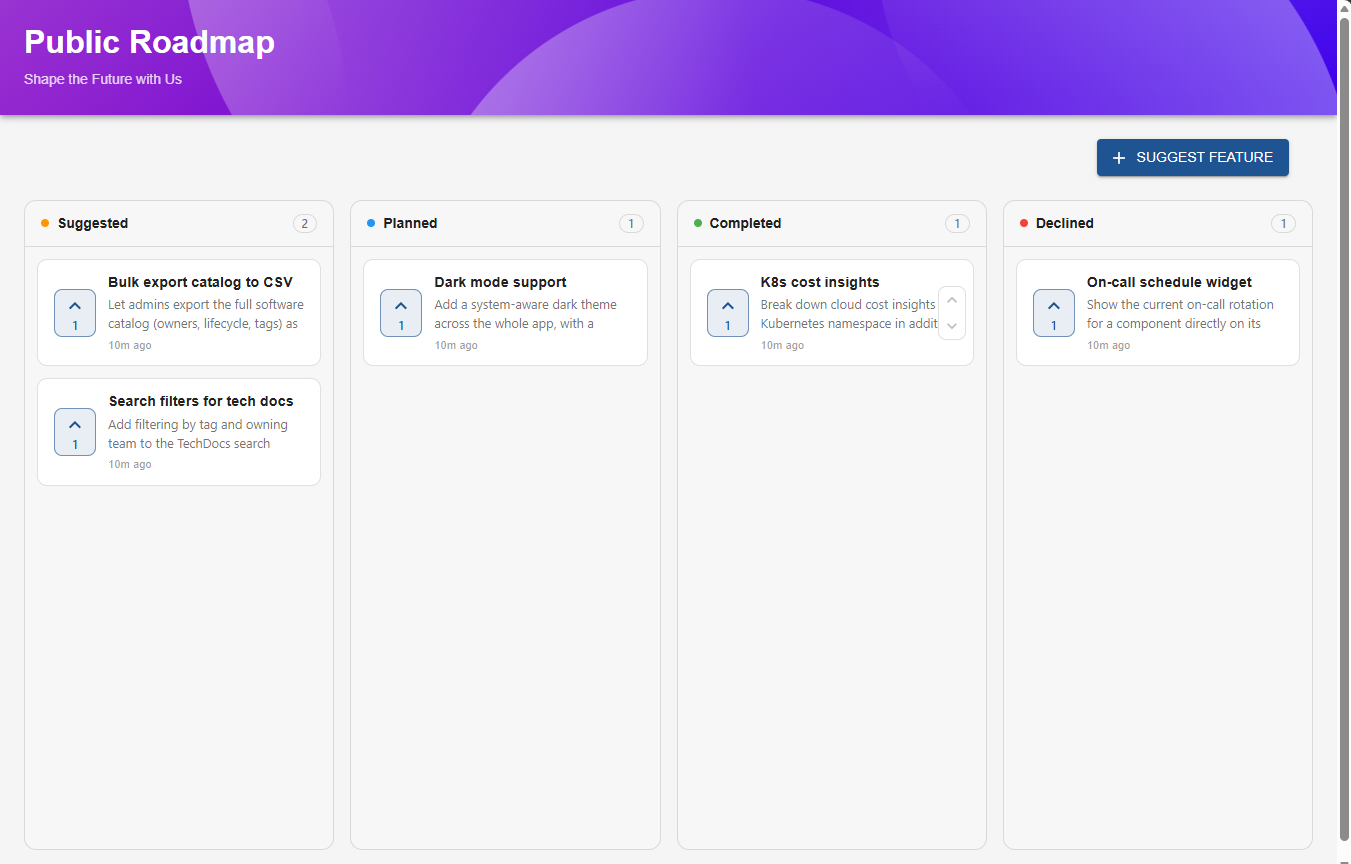
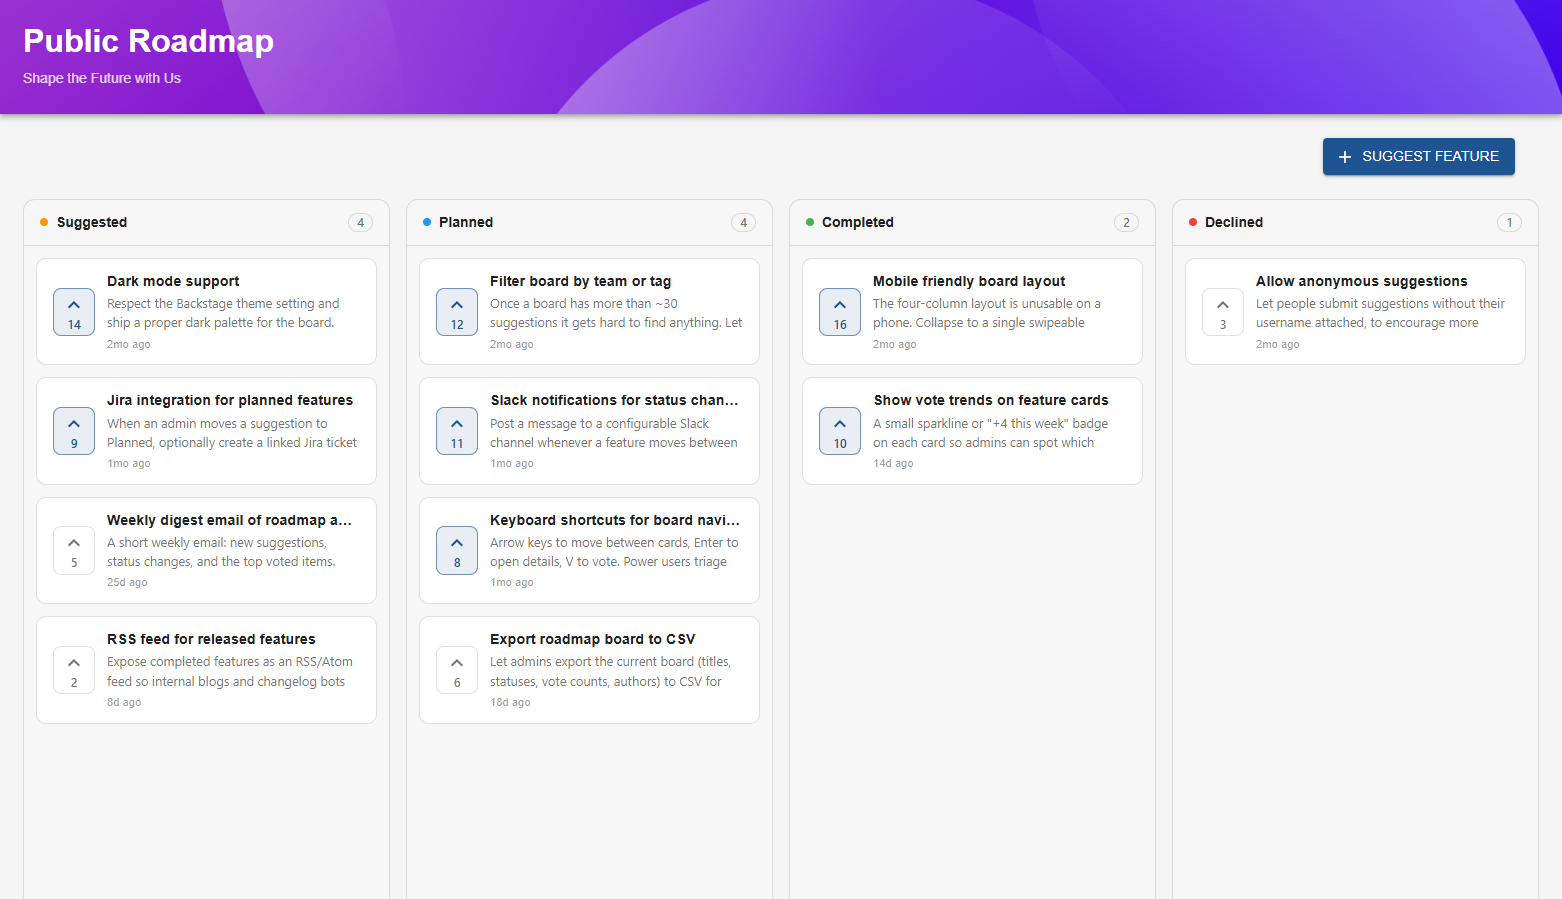
docs: refresh README screenshots (#33)
* docs: refresh README screenshots and add notifications, search, and similar-suggestions shots

* docs: prefer natural phrasing in new README text

* docs: natural phrasing pass across the README

* chore: add named demo users to the dev catalog

---------

diff --git a/README.md b/README.md
@@ -21,11 +21,29 @@ The Backstage Roadmap Plugin takes roadmaps out of hidden places like Confluence
 
 ### Feature Details
 
+Voting, status management, and threaded comments in a details drawer.
+
 ![Feature Details Drawer](./assets/FeatureDetailsDrawer.png)
 
 ### Suggest New Feature
 
+While you type, the dialog surfaces similar existing suggestions so people can vote for an existing request instead of filing a duplicate.
+
 ![Suggestion Drawer](./assets/SuggestionDrawer.png)
+
+### Notifications
+
+Authors are notified when their suggestion changes status or receives a comment, and admins hear about new suggestions. Each event has its own topic, so users can tune or mute them in their standard Backstage notification settings.
+
+![Notifications](./assets/Notifications.png)
+
+![Notification Settings](./assets/NotificationSettings.png)
+
+### Search
+
+With the optional collator module installed, roadmap features show up in Backstage global search with status, vote count, and author.
+
+![Search Results](./assets/SearchResults.png)
 
 ## ✨ Features
 
@@ -36,10 +54,11 @@ The Backstage Roadmap Plugin takes roadmaps out of hidden places like Confluence
 - 🔍 (Optional) Backstage search integration via a collator module
 - 🔗 Deep links: `/roadmap?feature=<id>` opens a feature directly
 - ⚡ Live board updates via Backstage signals (votes and status changes appear without a refresh)
-- 🔌 Events for integrators: every change is published to the Backstage events bus
+- 🔌 Events for integrators, with every change published to the Backstage events bus
 - 🔐 Role-based permissions (admin vs. regular user)
 - 🆕 Feature suggestion form for users
-- 🦊 (Optional) GitLab integration — use GitLab issues as the datasource
+- 👯 Duplicate detection in the suggest dialog, which surfaces similar existing suggestions while you type
+- 🦊 (Optional) GitLab integration that uses GitLab issues as the datasource
 
 ## 🛠️ Installation
 
@@ -61,8 +80,8 @@ The Backstage Roadmap Plugin takes roadmaps out of hidden places like Confluence
 
 That's the whole core install. The shared types package (`@rothenbergt/backstage-plugin-roadmap-common`) comes along automatically as a dependency. Two optional add-ons unlock more:
 
-- **Search**: index roadmap features into Backstage global search with `@rothenbergt/backstage-plugin-search-backend-module-roadmap` (see [Search](#search) below).
-- **Live updates**: install the Backstage signals plugins and open boards refresh in real time (see [Live updates](#live-updates-signals) below).
+- **Search** indexes roadmap features into Backstage global search with `@rothenbergt/backstage-plugin-search-backend-module-roadmap` (see [Search](#search) below).
+- **Live updates** arrive once the Backstage signals plugins are installed, and open boards refresh in real time (see [Live updates](#live-updates-signals) below).
 
 ## 🖥️ Usage
 
@@ -80,10 +99,10 @@ After installation, navigate to the `/roadmap` route in your Backstage instance.
 
 The plugin defines two permissions:
 
-| Permission       | What it gates                                                               |
-| ---------------- | --------------------------------------------------------------------------- |
-| `roadmap.create` | The **Suggest Feature** button and the create-feature endpoint              |
-| `roadmap.admin`  | Admin actions: changing status, editing/deleting features, reordering, etc. |
+| Permission       | What it gates                                                                    |
+| ---------------- | -------------------------------------------------------------------------------- |
+| `roadmap.create` | The **Suggest Feature** button and the create-feature endpoint                   |
+| `roadmap.admin`  | Admin actions such as changing status, editing/deleting features, and reordering |
 
 How they resolve depends on whether the Backstage permission framework is enabled (`permission.enabled` in `app-config.yaml`):
 
@@ -98,7 +117,7 @@ How they resolve depends on whether the Backstage permission framework is enable
 
 - **Framework enabled:** your permission policy decides. You must have `@backstage/plugin-permission-backend` **and a policy** installed (e.g. the allow-all policy module, or your own policy that allows `roadmap.create` / `roadmap.admin`).
 
-> ⚠️ **Gotcha:** with `permission.enabled: true` but no permission backend or a policy that denies by default, the Suggest Feature button is hidden for **everyone** — including users in `roadmap.adminUsers`. That list only short-circuits the roadmap backend's own checks; the frontend button goes through the permission framework.
+> ⚠️ **Gotcha:** with `permission.enabled: true` but no permission backend or a policy that denies by default, the Suggest Feature button is hidden for **everyone**, including users in `roadmap.adminUsers`. That list only short-circuits the roadmap backend's own checks, while the frontend button goes through the permission framework.
 
 ### Notifications
 
@@ -168,7 +187,7 @@ import { RoadmapSearchResultListItem } from '@rothenbergt/backstage-plugin-roadm
 
 ### Live updates (signals)
 
-If the [Backstage signals plugin](https://backstage.io/docs/notifications/#signals) is installed (`@backstage/plugin-signals-backend` in the backend, `@backstage/plugin-signals` in the app), open roadmap boards refresh automatically when anything changes: new suggestions appear, vote counts tick up, and cards move between columns without a page reload. No configuration needed, and everything works unchanged without signals; the board just falls back to regular refetching.
+If the [Backstage signals plugin](https://backstage.io/docs/notifications/#signals) is installed (`@backstage/plugin-signals-backend` in the backend, `@backstage/plugin-signals` in the app), open roadmap boards refresh automatically when anything changes. New suggestions appear, vote counts tick up, and cards move between columns without a page reload. No configuration needed, and everything works unchanged without signals because the board just falls back to regular refetching.
 
 ### Events (for integrators)
 
@@ -193,10 +212,10 @@ Add a list under `columns`. Each item supports:
 | Field             | Description                                                                                                                                            |
 | ----------------- | ------------------------------------------------------------------------------------------------------------------------------------------------------ |
 | `status`          | One of: `Suggested`, `Planned`, `In Progress` (quote in YAML if needed), `Completed`, `Declined`. Unknown values are ignored.                          |
-| `title`           | Column heading shown on the board (optional; defaults to the status name).                                                                             |
+| `title`           | Column heading shown on the board (optional, defaults to the status name).                                                                             |
 | `visible`         | If `false`, that column is hidden on the board and features in that status are omitted from the default feature list (smaller API payloads). Optional. |
-| `retentionDays`   | Positive number: hide features older than this many days in the default list (**database** datasource only). Optional; omit for no retention.          |
-| `retentionAnchor` | `created` or `updated` (default `updated`): which timestamp retention uses.                                                                            |
+| `retentionDays`   | Positive number that hides features older than this many days in the default list (**database** datasource only). Optional, omit for no retention.     |
+| `retentionAnchor` | Chooses which timestamp retention uses, either `created` or `updated` (default `updated`).                                                             |
 
 **Defaults:** Every status has a column. **In Progress** is included but **`visible: false` by default**, so the board matches the classic four-column layout until you turn it on. Other statuses default to visible.
 
@@ -228,11 +247,11 @@ roadmap:
       visible: false
 ```
 
-With the **GitLab** datasource, column labels and visibility still apply to how lists are filtered and labeled; retention and “show beyond retention” remain **database-only** (see the [roadmap-backend README](plugins/roadmap-backend/README.md) for API details).
+With the **GitLab** datasource, column labels and visibility still apply to how lists are filtered and labeled, while retention and “show beyond retention” remain **database-only** (see the [roadmap-backend README](plugins/roadmap-backend/README.md) for API details).
 
 ## 🦊 (Optional) GitLab Integration
 
-By default, the plugin stores data in a plugin database. You can optionally use a GitLab project — or an entire GitLab group — as the backend datasource, where roadmap features are stored as GitLab issues.
+By default, the plugin stores data in a plugin database. You can optionally use a GitLab project or an entire GitLab group as the backend datasource, where roadmap features are stored as GitLab issues.
 
 ### How It Works
 
@@ -246,7 +265,7 @@ By default, the plugin stores data in a plugin database. You can optionally use 
 GitLab mode treats issues as the source of truth, which comes with a few deliberate boundaries:
 
 - Features, votes, and comments created through the plugin carry the real Backstage user (embedded in hidden tags), so attribution is exact. Issues created directly in GitLab show their GitLab username as a best-effort author instead.
-- Vote counts are derived from hidden marker notes, so loading the board enumerates notes per issue (softened by a short cache). This works well for modest roadmaps; if you expect many hundreds of features with heavy voting, the database datasource is the better fit.
+- Vote counts are derived from hidden marker notes, so loading the board enumerates notes per issue (softened by a short cache). This works well for modest roadmaps, but if you expect many hundreds of features with heavy voting, the database datasource is the better fit.
 - Vote tallies are eventually consistent under concurrent voting. Duplicate markers from simultaneous toggles are cleaned up on the next unvote.
 
 ### Project Mode
@@ -293,25 +312,25 @@ In group mode, the plugin queries issues at the group level and caches the proje
 
 ## 🤝 Contributing
 
-We welcome contributions! Here's how to get started:
+We welcome contributions! Here's how to get started.
 
 ### Development Setup
 
 1. Fork and clone the repository
-2. Install dependencies: `yarn install` (after changing Node major versions, rebuild native modules so **`better-sqlite3`** matches your runtime; otherwise `plugin.test.ts` integration cases are **skipped** while the rest of the suite still runs).
-3. Start the dev environment: `yarn dev` (runs the standalone frontend at `localhost:3000` and backend at `localhost:7007` with guest auth, an in-memory database, an allow-all permission policy, plus the catalog, notifications, signals, and search backends so everything is testable locally)
+2. Install dependencies with `yarn install` (after changing Node major versions, rebuild native modules so **`better-sqlite3`** matches your runtime, otherwise `plugin.test.ts` integration cases are **skipped** while the rest of the suite still runs).
+3. Start the dev environment with `yarn dev` (runs the standalone frontend at `localhost:3000` and backend at `localhost:7007` with guest auth, an in-memory database, an allow-all permission policy, plus the catalog, notifications, signals, and search backends so everything is testable locally)
 
-   Testing notifications locally: you act as the guest user, and self-notifications are excluded, so the interesting sends target the second configured admin (`user:default/roadmap-admin` in the dev `app-config.yaml`). Create a feature as guest and watch the notifications backend logs (or `GET /api/notifications` with a token for that user). The dev frontend also has a Notifications page at `/notifications`. Search can be verified after the collator's initial delay with `GET /api/search/query?term=<word>`.
+   When testing notifications locally, you act as the guest user, and self-notifications are excluded, so the interesting sends target the second configured admin (`user:default/roadmap-admin` in the dev `app-config.yaml`). Create a feature as guest and watch the notifications backend logs (or `GET /api/notifications` with a token for that user). The dev frontend also has a Notifications page at `/notifications`. Search can be verified after the collator's initial delay with `GET /api/search/query?term=<word>`.
 
 4. Make your changes
-5. Run tests: `yarn test:all` (the database store tests also run against Postgres via [testcontainers](https://node.testcontainers.org/) when Docker is available; set `BACKSTAGE_TEST_DISABLE_DOCKER=1` to run sqlite-only. CI provides Postgres as a service container and runs both.)
-6. Run lint: `yarn lint:all`
+5. Run tests with `yarn test:all` (the database store tests also run against Postgres via [testcontainers](https://node.testcontainers.org/) when Docker is available. Set `BACKSTAGE_TEST_DISABLE_DOCKER=1` to run sqlite-only. CI provides Postgres as a service container and runs both.)
+6. Run lint with `yarn lint:all`
 
 **`jwa` resolutions:** `jws` v3 depends on `jwa` 1.x and `jws` v4 on `jwa` 2.x, so root `package.json` pins both majors separately. Replacing them with one version would break one of those stacks unless upstream upgrades.
 
 ### Creating a Changeset
 
-This project uses [Changesets](https://github.com/changesets/changesets) to manage versions and releases. When you make a change that affects users, you need to create a changeset:
+This project uses [Changesets](https://github.com/changesets/changesets) to manage versions and releases. When you make a change that affects users, you need to create a changeset.
 
 1. Run `yarn changeset`
 2. Select which packages are affected (use space to select, enter to confirm)

diff --git a/.changeset/readme-screenshots.md b/.changeset/readme-screenshots.md
@@ -1,0 +1,4 @@
+---
+---
+
+Docs only. Refreshed the README screenshots for the board, details drawer, similar suggestions, notifications, and search, and expanded the screenshot section. No package changes.